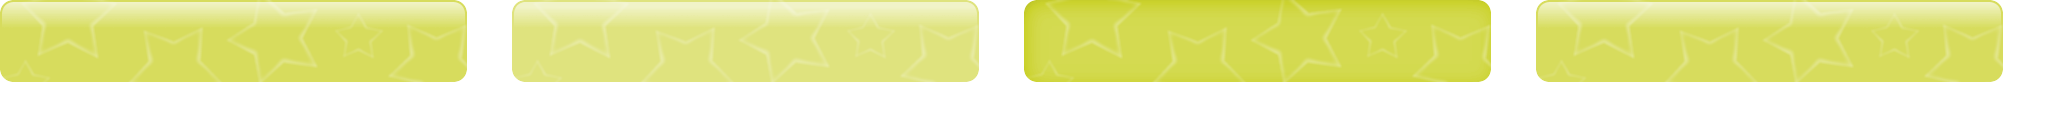
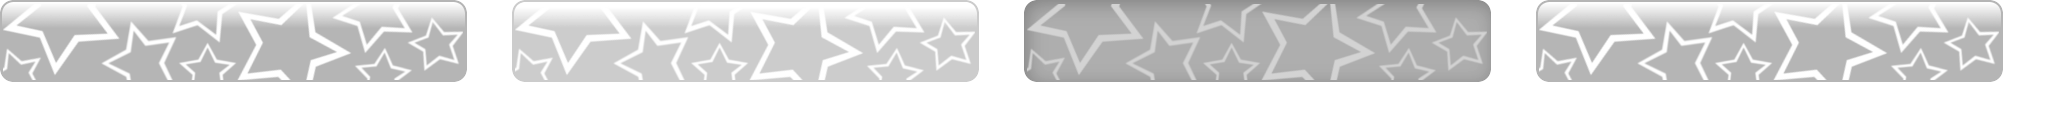
fixed all colours on category select

diff --git a/logic/gui/category_select.py b/logic/gui/category_select.py
@@ -54,6 +54,8 @@ class GUI_category_select_container(GUI_element):
             self.game.gui.block_gui_mouse_input = True
             self.game.gui.mouse.alpha = 0.0
 
+        """
+        # High sat
         colours = {
             'skyblue' : (.24, .53, 1.0),
             'cyan' : (.24, 1.0, .69),
@@ -67,6 +69,37 @@ class GUI_category_select_container(GUI_element):
             'purple' : (.52, .12, .5),
             'poop' : (.52, .36, .12)
             }
+        """
+        # Mid sat
+        colours = {
+            'skyblue' : (.37, .61, 1.0),
+            'cyan' : (.37, 1.0, .74),
+            'midnight_blue' : (.56, .37, 1.0),
+            'red' : (1.0, .37, .37),
+            'yellow' : (1.0, .98, .37),
+            'orange' : (1.0, .7, .37),
+            'apple_green' : (.5, 1.0, .37),
+            'forest_green' : (.33, .6, .27),
+            'magenta' : (1.0, .37, .88),
+            'purple' : (.6, .27, .58),
+            'poop' : (.6, .47, .27),
+            }
+        """
+        # Low sat
+        colours = {
+            'apple_green' : (.58, 1.0, .48),
+            'red' : (1.0, .47, .47),
+            'skyblue' : (.48, .68, 1.0),
+            'cyan' : (.47, 1.0, .79),
+            'yellow' : (1.0, .98, .48),
+            'orange' : (1.0, .75, .47),
+            'midnight_blue' : (.63, .47, 1.0),
+            'purple' : (.54, .24, .52),
+            'forest_green' : (.31, .54, .25),
+            'poop' : (.52, .41, .24),
+            'magenta' : (1.0, .47, .90),
+            }
+        """
         
         categories = [
             ("Tutorial", "0001", colours['apple_green']),
@@ -74,7 +107,7 @@ class GUI_category_select_container(GUI_element):
             ("Easy",     "0003", colours['skyblue']),
             ("Moderate", "0004", colours['cyan']),
             ("Tricky",   "0005", colours['yellow']),
-            ("Taxing",   "0006", colours['magenta']),
+            ("Taxing",   "0006", colours['orange']),
             ("Advanced", "0007", colours['midnight_blue']),
             ("Hard",     "0008", colours['purple']),
             ("Expert",   "0009", colours['forest_green']),
@@ -83,7 +116,7 @@ class GUI_category_select_container(GUI_element):
         self.category_objs = []
 
         if self.game.manager.last_pack_unlocked:
-            categories.append(("Final Challenge",  "last", colours['orange']))
+            categories.append(("Final Challenge",  "last", colours['magenta']))
 
         i = 0
         self.last_category = None
